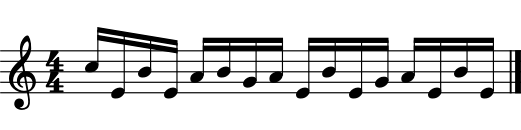
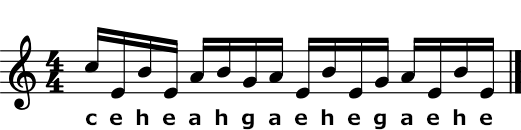
Simplified mouse steering + caption below notes for people who don't know them.

Changed region(s): [[0.1536, 0.8308, 0.952, 1.0]]

diff --git a/dudes.js b/dudes.js
@@ -101,6 +101,8 @@
                         this.dudes[i].program1 = -1;
                         this.dudes[i].program2 = -1;
                         this.dudes[i].programTarget = -1;
+                        this.dudes[i].targetX = window.mouseX;
+                        this.dudes[i].targetY = window.mouseY;
                         this.dudes[i].thought = false;
                         let thoughtToRemove = document.getElementById(this.dudes[i].id + "-thought");
                         thoughtToRemove.parentNode.removeChild(thoughtToRemove);
@@ -207,10 +209,7 @@
             }
         }
 
-        if(this.programTarget === -1) {
-            this.targetX = window.mouseX;
-            this.targetY = window.mouseY;
-        } else {
+        if(this.programTarget != -1) {
             let trigger = main.triggers[this.programTarget]
             this.targetX = trigger.x + 45 * (trigger.direction - 1) - 10;
             this.targetY = trigger.y + 30;
@@ -312,8 +311,6 @@
         for(let i = 0; i < main.mm.music.length; i++) {
             let j = (i + main.mm.noteIndex + 1) % main.mm.music.length;
             if(main.mm.music[j] === this.program1 || main.mm.music[j] === this.program2) {
-                // alert("i="+i+",\nj="+j+",\nnoteIndex="+main.mm.noteIndex+",\nmusic[j]="+main.mm.music[j]+",\nmusic[j] note="+main.triggers[main.mm.music[j]].note+
-                //     ",\nprogram1="+this.program1+",\nprogram2="+this.program2+",\nstary program target="+this.programTarget+",\nnowy program target="+main.mm.music[j]);
                 this.programTarget = main.mm.music[j];
                 this.targetX = main.triggers[this.programTarget].x;
                 this.targetY = main.triggers[this.programTarget].y;

diff --git a/index.html b/index.html
@@ -26,7 +26,7 @@
 
         .highlight-box {
             width: 26px;
-            height: 100px;
+            height: 120px;
             background-color: grey;
             opacity: 20%;
         }
